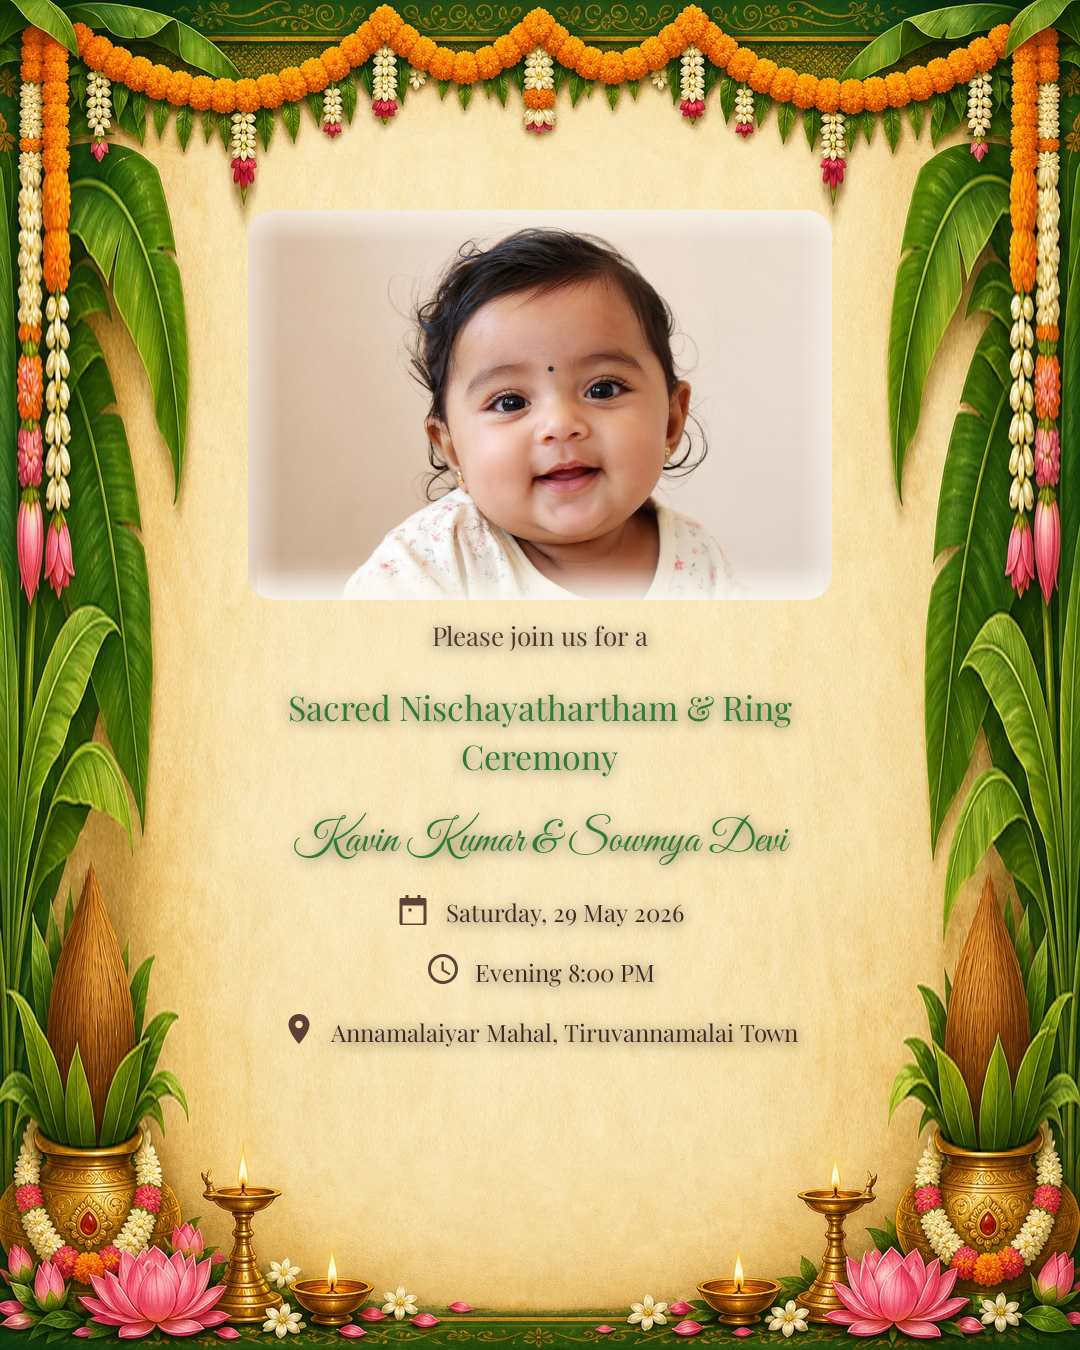
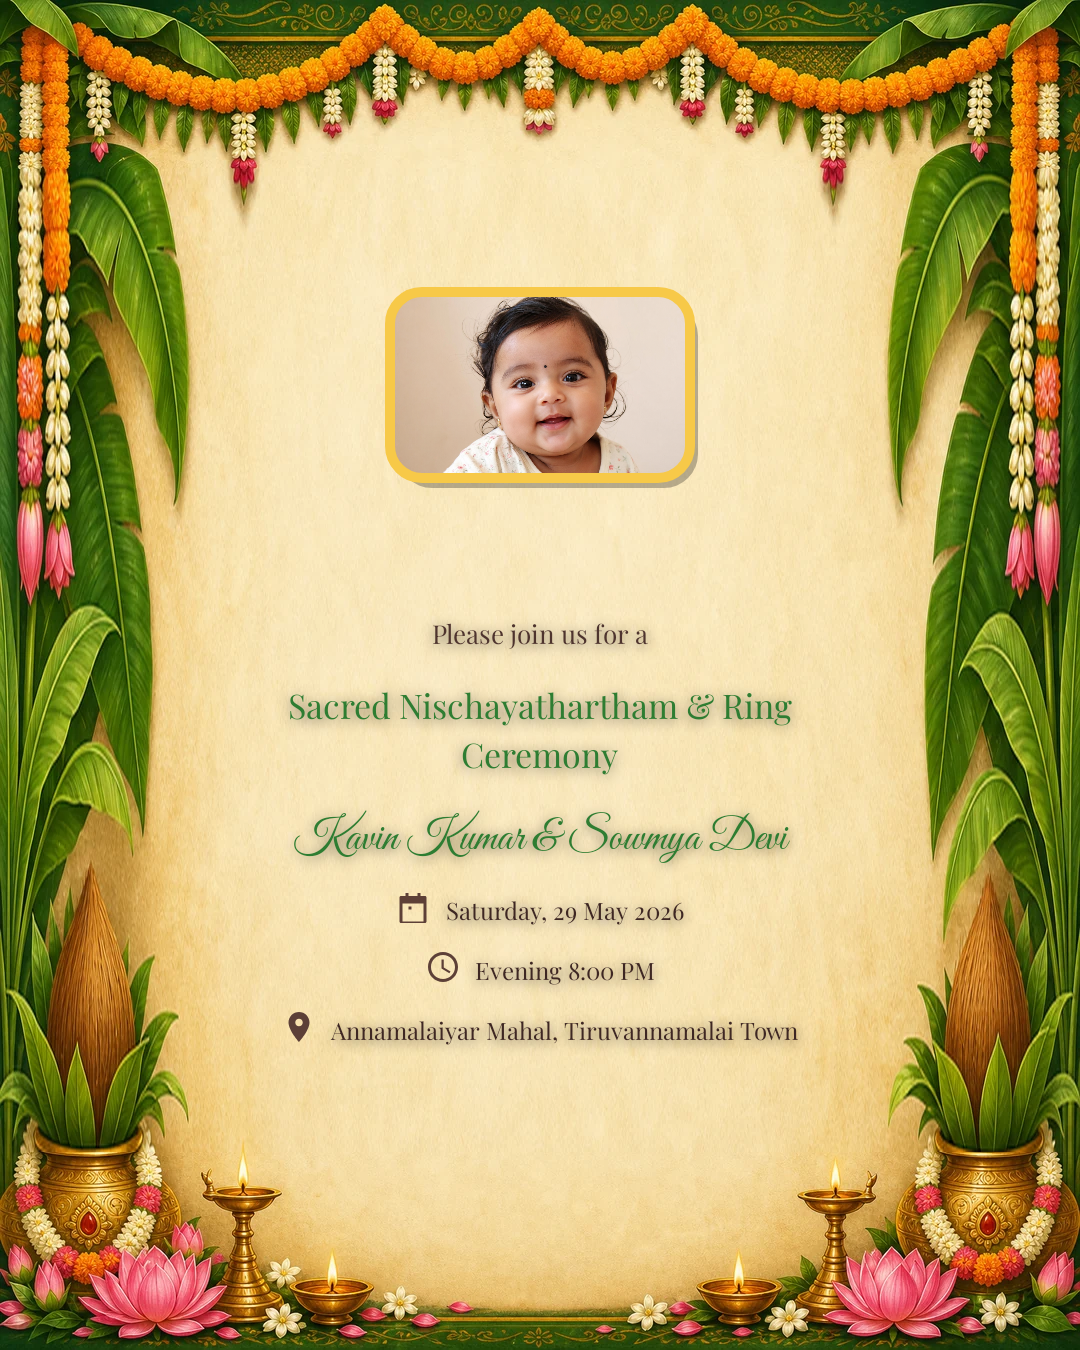
Unify photo slot and gold border across all photo cards
- Engagement, naming, and baby shower use birthday-sized frame (390–690 × 292–478)
- All photo cards render with gold stroke border and drop shadow
- Update layout tests and sample previews for engagement and baby shower

diff --git a/app/src/main/java/com/vaangainvite/core/image/PhotoCardPlacement.kt b/app/src/main/java/com/vaangainvite/core/image/PhotoCardPlacement.kt
@@ -4,7 +4,7 @@ import android.graphics.Path
 import android.graphics.RectF
 
 /**
- * Designed WebP photo cards (engagement, naming, baby shower, …) — soft rectangle on continuous cream panel.
+ * Designed WebP photo cards (engagement, naming, baby shower) — compact gold-framed photo on cream panel.
  */
 internal object PhotoCardPlacement {
 
@@ -15,14 +15,11 @@ internal object PhotoCardPlacement {
     data class Spec(
         val bounds: RectF,
         val mask: Mask = Mask.TRADITIONAL_RECT,
-        val cornerRadius: Float = 26f
+        val cornerRadius: Float = 32f
     )
 
-    /** Measured on native 1080×1350 portrait sources (full-bleed, no letterbox). */
-    private val traditionalPhoto = RectF(248f, 210f, 832f, 600f)
-
     /** Same slot as birthday WebP cards — compact frame under the toran band. */
-    private val namingPhoto = RectF(390f, 292f, 690f, 478f)
+    val framedPhoto = RectF(390f, 292f, 690f, 478f)
 
     private val templateIds = (1..5).flatMap { i ->
         listOf(
@@ -32,12 +29,8 @@ internal object PhotoCardPlacement {
         )
     }
 
-    private val specs = templateIds.associateWith { id ->
-        if (id.startsWith("naming_")) {
-            Spec(bounds = namingPhoto, cornerRadius = 32f)
-        } else {
-            Spec(bounds = traditionalPhoto, cornerRadius = 26f)
-        }
+    private val specs = templateIds.associateWith {
+        Spec(bounds = framedPhoto, cornerRadius = 32f)
     }
 
     fun isPhotoCardTemplate(templateId: String): Boolean =
@@ -47,10 +40,10 @@ internal object PhotoCardPlacement {
 
     /** Gold stroke frame (birthday style) instead of cream vignette blend. */
     fun usesFramedPhotoBorder(templateId: String): Boolean =
-        templateId.startsWith("naming_")
+        isPhotoCardTemplate(templateId)
 
     fun specFor(templateId: String): Spec {
-        return specs[templateId] ?: Spec(bounds = traditionalPhoto)
+        return specs[templateId] ?: Spec(bounds = framedPhoto)
     }
 
     fun clipPath(spec: Spec): Path {

diff --git a/app/src/test/java/com/vaangainvite/core/image/NamingLayoutTest.kt b/app/src/test/java/com/vaangainvite/core/image/NamingLayoutTest.kt
@@ -22,11 +22,14 @@ class NamingLayoutTest {
 
     @Test
     fun namingPhotoSlotMatchesBirthdayFrame() {
-        val namingFrame = PhotoCardPlacement.specFor("naming_01").bounds
-        val birthdayFrame = InvitationLayout.defaultPhotoFrame()
-        assertEquals(birthdayFrame, namingFrame)
-        assertEquals(32f, PhotoCardPlacement.specFor("naming_01").cornerRadius, 0.01f)
-        assertTrue(PhotoCardPlacement.usesFramedPhotoBorder("naming_01"))
+        assertPhotoCardUsesBirthdayFrame("naming_01")
+    }
+
+    private fun assertPhotoCardUsesBirthdayFrame(templateId: String) {
+        val frame = PhotoCardPlacement.specFor(templateId).bounds
+        assertEquals(InvitationLayout.defaultPhotoFrame(), frame)
+        assertEquals(32f, PhotoCardPlacement.specFor(templateId).cornerRadius, 0.01f)
+        assertTrue(PhotoCardPlacement.usesFramedPhotoBorder(templateId))
     }
 
     @Test

diff --git a/app/src/test/java/com/vaangainvite/core/image/EngagementLayoutTest.kt b/app/src/test/java/com/vaangainvite/core/image/EngagementLayoutTest.kt
@@ -21,11 +21,17 @@ class EngagementLayoutTest {
     }
 
     @Test
-    fun engagementTextStartsDirectlyBelowPhotoWithNoOrnamentGap() {
+    fun engagementPhotoSlotMatchesBirthdayFrame() {
+        val frame = PhotoCardPlacement.specFor("engagement_01").bounds
+        assertEquals(InvitationLayout.defaultPhotoFrame(), frame)
+        assertTrue(PhotoCardPlacement.usesFramedPhotoBorder("engagement_01"))
+    }
+
+    @Test
+    fun engagementTextStartsBelowPhotoFrame() {
         val id = "engagement_01"
         val photoBottom = PhotoCardPlacement.photoBottom(id)
         val textTop = InvitationLayout.textStartY(id, hasUploadedPhoto = true)
-        assertTrue(textTop <= photoBottom + 30f)
         assertTrue(textTop > photoBottom)
     }
 

diff --git a/app/src/test/java/com/vaangainvite/core/image/BabyShowerLayoutTest.kt b/app/src/test/java/com/vaangainvite/core/image/BabyShowerLayoutTest.kt
@@ -21,6 +21,13 @@ class BabyShowerLayoutTest {
     }
 
     @Test
+    fun babyShowerPhotoSlotMatchesBirthdayFrame() {
+        val frame = PhotoCardPlacement.specFor("babyshower_01").bounds
+        assertEquals(InvitationLayout.defaultPhotoFrame(), frame)
+        assertTrue(PhotoCardPlacement.usesFramedPhotoBorder("babyshower_01"))
+    }
+
+    @Test
     fun babyShowerTextZoneFitsMaxLengthCopy() {
         val id = "babyshower_01"
         val zone = InvitationLayout.photoTextZone(id, hasUploadedPhoto = true)
